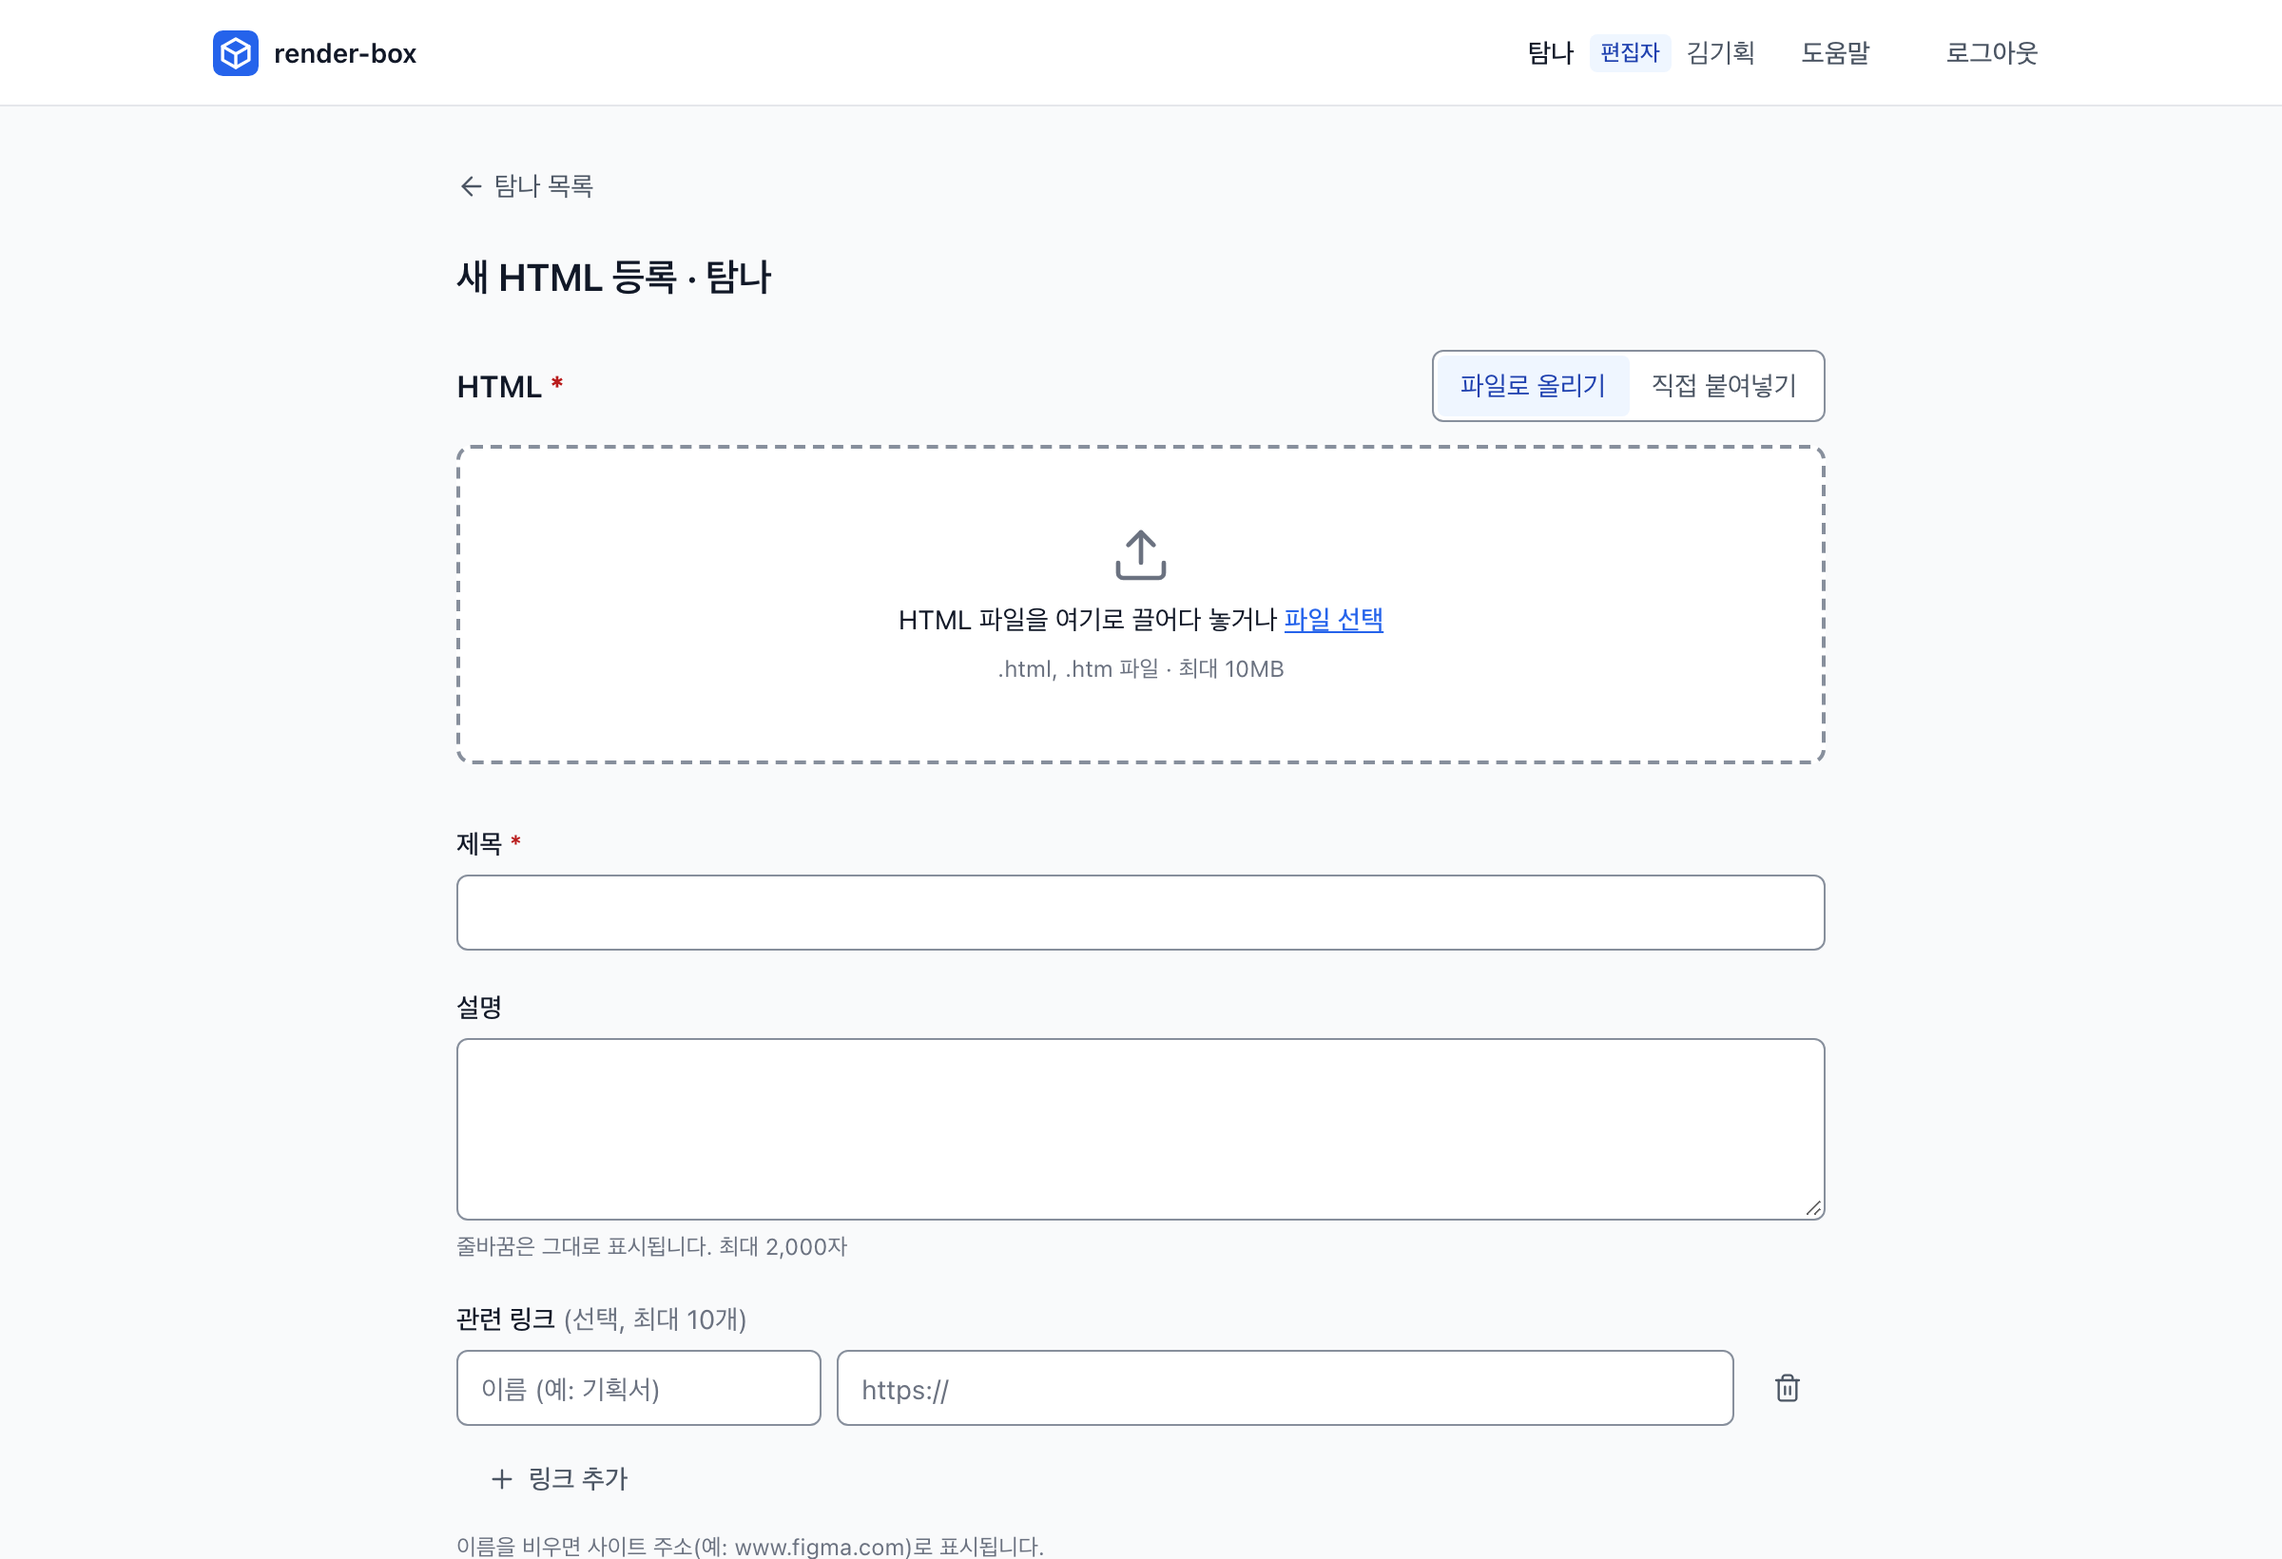
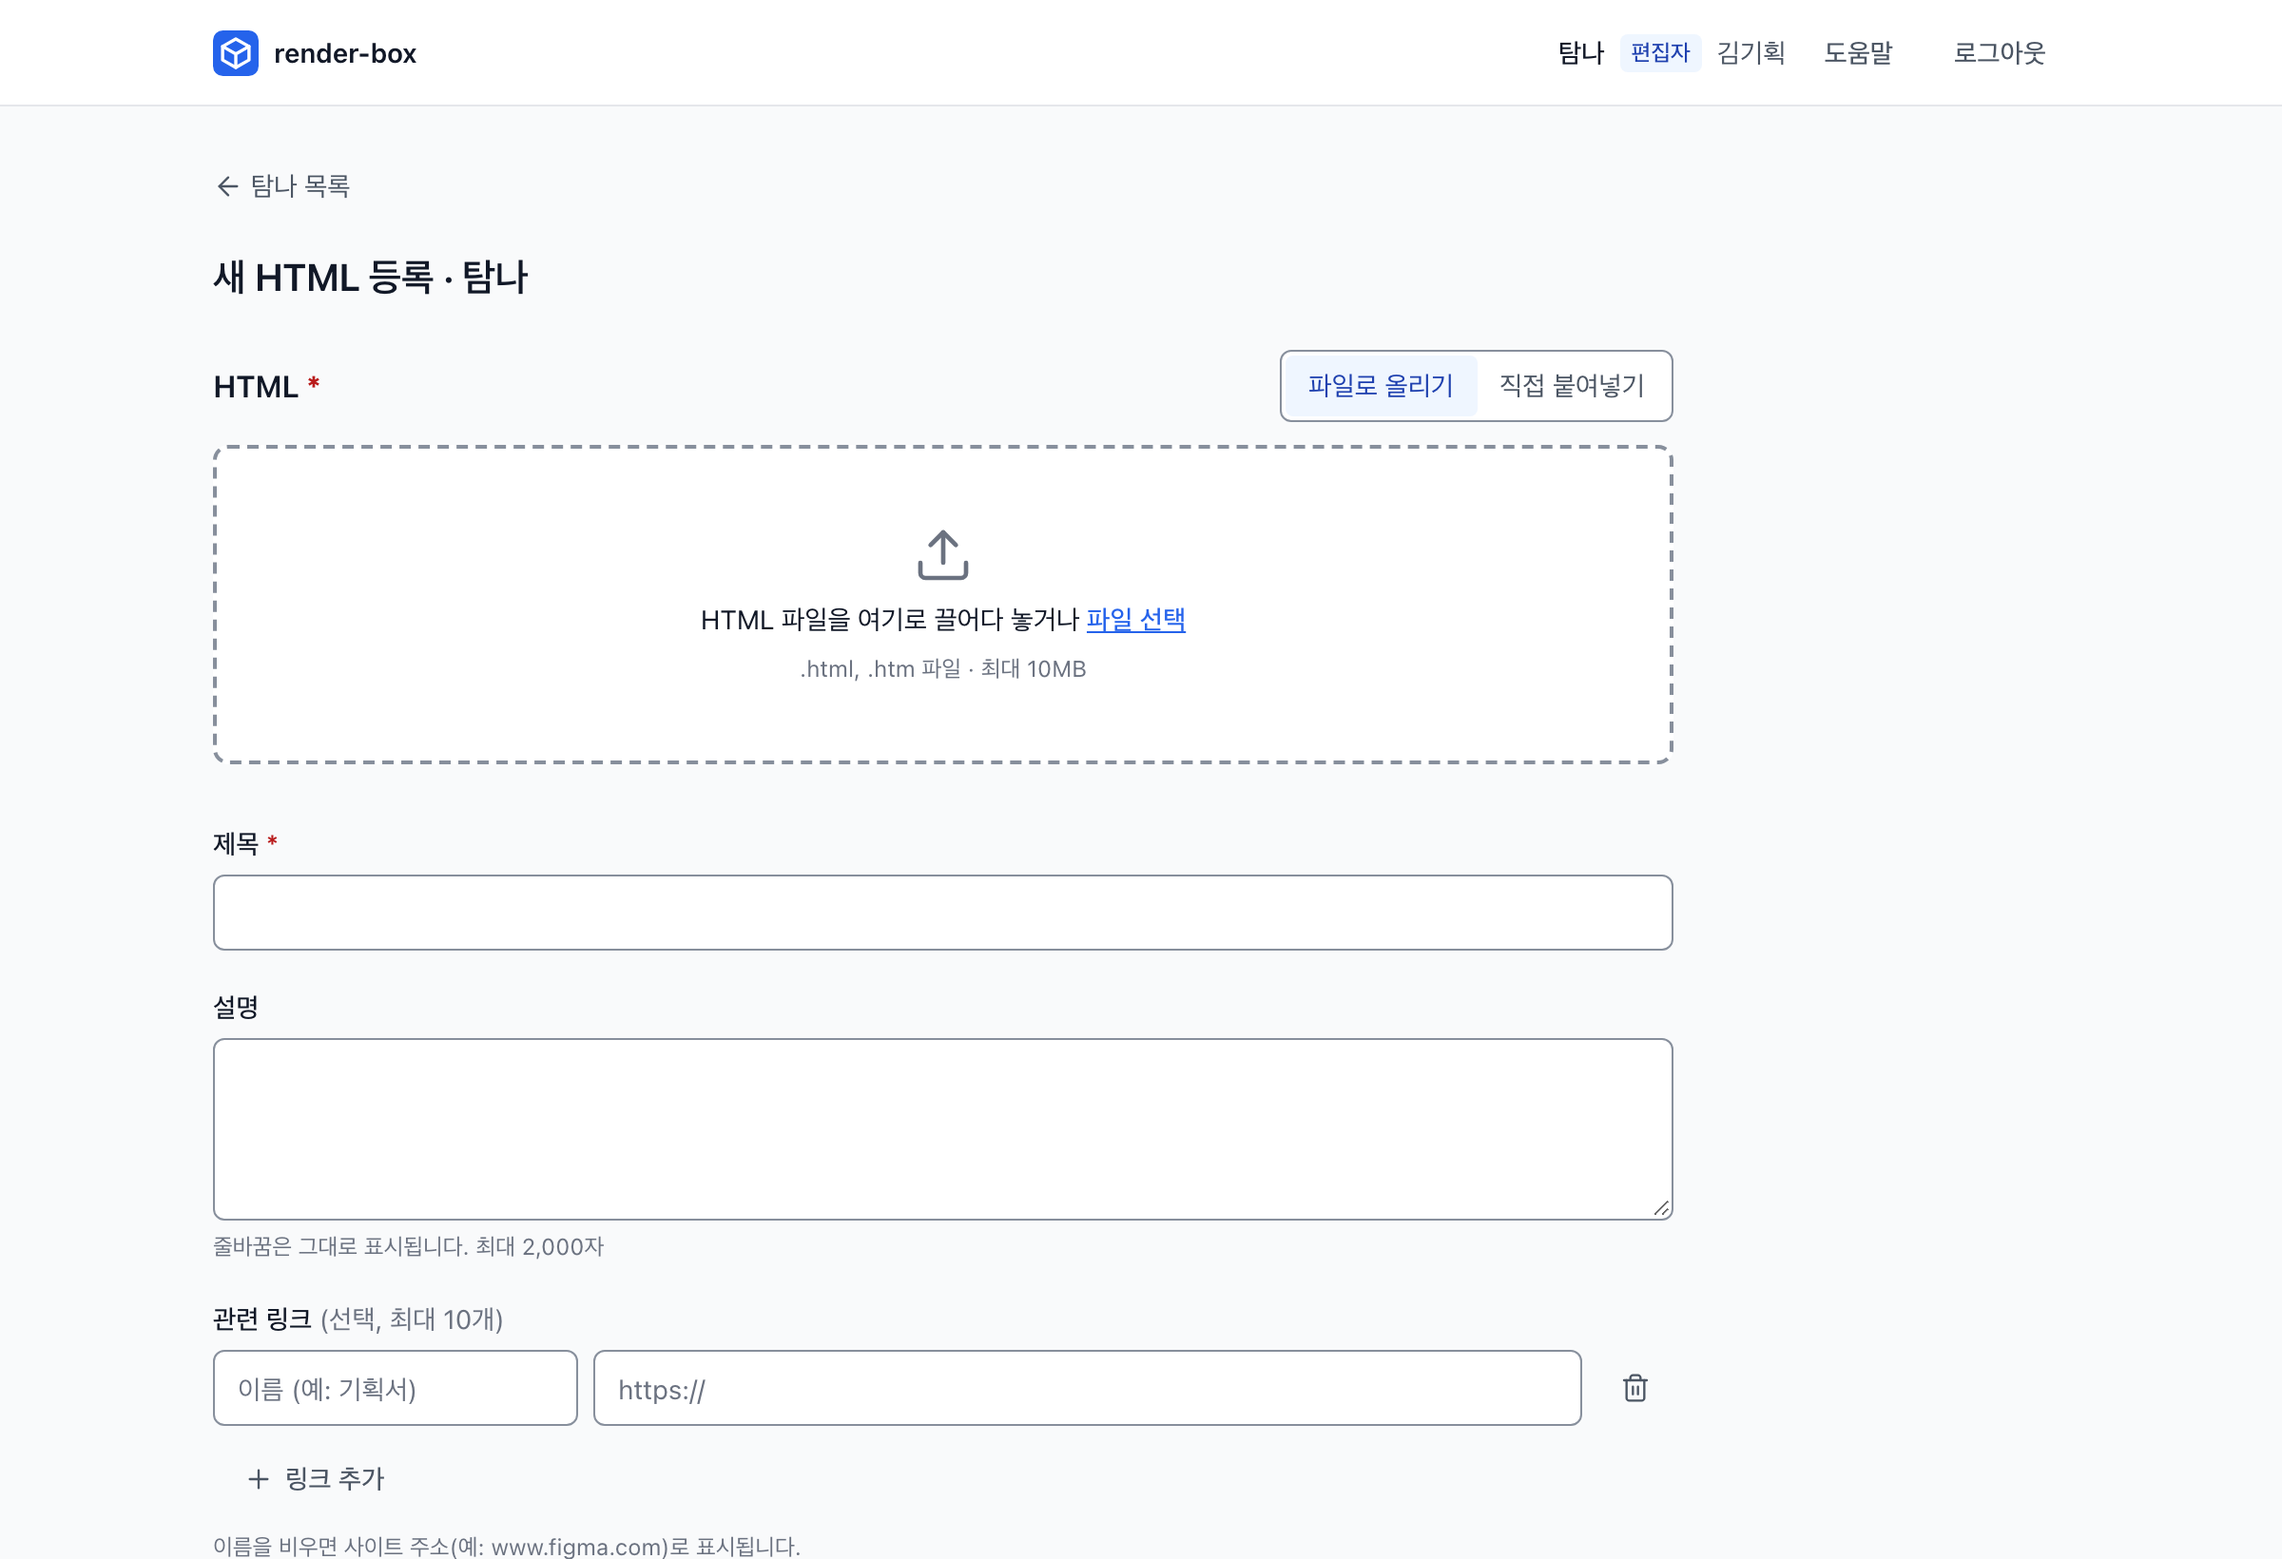
fix(admin): one page width and a phone-sized top bar
- Width jumped between pages: the list used max-w-5xl, detail/edit/new/
  storage max-w-3xl centered and the 404 card max-w-sm centered, so the
  content's left edge moved (88 / 216 / 408px at 1200px). Every page now
  uses the header's container; reading pages narrow their content inside,
  aligned left. scrollbar-gutter: stable keeps short and long pages the
  same width with classic scrollbars.
- On phones "render-box" wrapped onto two lines and overlapped the
  project name. Below sm the top bar shows the logo only, a help icon,
  a shortened project name and tighter buttons; the user name shows from md.
- e2e/layout.spec.ts: all pages start at the logo's left edge; at 360px
  the top bar is one line inside the viewport. README screenshots refreshed.

diff --git a/apps/admin/src/views/layout.tsx b/apps/admin/src/views/layout.tsx
@@ -75,16 +75,16 @@ function ProjectMenu({ user, project }: { user: SessionUser; project: Membership
   const others = user.projects.filter((p) => p.projectId !== project.projectId);
   const label = (
     <>
-      <span class="max-w-40 truncate font-medium text-fg">{project.name}</span>
+      <span class="max-w-24 truncate font-medium text-fg sm:max-w-40">{project.name}</span>
       <span class={project.role === "EDITOR" ? ui.badgePrimary : ui.badgeNeutral}>
         {user.admin ? "관리자" : ROLE_LABEL[project.role]}
       </span>
     </>
   );
-  if (others.length === 0) return <span class="flex items-center gap-2 text-sm" data-project={project.slug}>{label}</span>;
+  if (others.length === 0) return <span class="flex min-w-0 items-center gap-2 text-sm" data-project={project.slug}>{label}</span>;
   return (
-    <details class="relative" data-project={project.slug}>
-      <summary class={`${ui.ghost} cursor-pointer list-none gap-2`} aria-label={`프로젝트 ${project.name}, 바꾸기`}>
+    <details class="relative min-w-0" data-project={project.slug}>
+      <summary class={`${ui.ghost} cursor-pointer list-none gap-2 px-2 sm:px-3`} aria-label={`프로젝트 ${project.name}, 바꾸기`}>
         {label}
         <Icon name="chevron-down" class="size-3.5" />
       </summary>
@@ -107,17 +107,18 @@ export function TopBar({ user, project = null }: { user: SessionUser; project?: 
   return (
     <header class="sticky top-0 z-10 h-14 border-b border-line bg-surface">
       <div class="mx-auto flex h-full max-w-5xl items-center justify-between px-4 sm:px-6">
-        <a href="/html" class="inline-flex items-center gap-2 font-semibold text-fg">
+        {/* Logo only below sm: the name, project menu, help and logout do not fit. */}
+        <a href="/html" class="inline-flex shrink-0 items-center gap-2 font-semibold text-fg" aria-label="render-box 목록">
           <img src={asset("logo.svg")} alt="" width="24" height="24" class="size-6" />
-          render-box
+          <span class="hidden sm:inline">render-box</span>
         </a>
-        <div class="flex items-center gap-2">
+        <div class="flex min-w-0 items-center gap-1 sm:gap-2">
           {project ? <ProjectMenu user={user} project={project} /> : null}
-          <span class="hidden text-sm text-fg-muted sm:inline">{user.name}</span>
-          <HelpLink class={ui.ghost} />
-          <form method="post" action="/logout">
+          <span class="hidden text-sm text-fg-muted md:inline">{user.name}</span>
+          <HelpLink class={`${ui.ghost} px-2 sm:px-3`} compact />
+          <form method="post" action="/logout" class="shrink-0">
             <input type="hidden" name="_csrf" value={user.csrfToken ?? ""} />
-            <button type="submit" class={ui.ghost}>
+            <button type="submit" class={`${ui.ghost} px-2 sm:px-3`}>
               로그아웃
             </button>
           </form>
@@ -145,8 +146,10 @@ export function AppPage({
   return (
     <Document title={title} boost={boost}>
       <TopBar user={user} project={project} />
-      <main id="main" tabindex={-1} class={`mx-auto ${width} px-4 py-6 outline-none sm:px-6 sm:py-8`}>
-        {children}
+      {/* Every page uses the header's width so the left edge never moves between
+          pages; reading pages narrow their content inside, aligned left. */}
+      <main id="main" tabindex={-1} class="mx-auto max-w-5xl px-4 py-6 outline-none sm:px-6 sm:py-8">
+        {width === "max-w-5xl" ? children : <div class="max-w-3xl">{children}</div>}
       </main>
     </Document>
   );
@@ -211,13 +214,23 @@ export function BackLink({ href, children }: { href: string; children: Child }) 
 }
 
 // External pages open in a new tab so an unsaved form is not lost.
-export function HelpLink({ class: cls, label = "도움말" }: { class: string; label?: string }) {
+// `compact`: an icon below sm, the label from sm up (top bar).
+export function HelpLink({ class: cls, label = "도움말", compact = false }: { class: string; label?: string; compact?: boolean }) {
   const href = getHelpUrl();
   if (!href) return null;
   return (
-    <a href={href} target="_blank" rel="noopener noreferrer" class={cls}>
-      {label}
-      <span class="sr-only"> (새 창)</span>
+    <a href={href} target="_blank" rel="noopener noreferrer" class={`${cls} shrink-0`} aria-label={compact ? `${label} (새 창)` : undefined}>
+      {compact ? (
+        <>
+          <Icon name="circle-help" class="size-5 sm:hidden" />
+          <span class="hidden sm:inline">{label}</span>
+        </>
+      ) : (
+        <>
+          {label}
+          <span class="sr-only"> (새 창)</span>
+        </>
+      )}
     </a>
   );
 }

diff --git a/e2e/layout.spec.ts b/e2e/layout.spec.ts
@@ -1,0 +1,54 @@
+import { expect, test, type Page } from "@playwright/test";
+import { APP, key, login } from "./helpers";
+
+// Every page keeps the same left edge (no width jumps between pages), and the
+// top bar fits on a phone (docs/ui.md §3).
+const API = "http://api.localhost:8789/api/v1";
+
+async function someDocument() {
+  const res = await fetch(`${API}/html?${new URLSearchParams({ title: `레이아웃 ${Date.now()}` })}`, {
+    method: "POST",
+    headers: { Authorization: `Bearer ${key("EDITOR")}`, "Content-Type": "text/html" },
+    body: "<!DOCTYPE html><p>x",
+  });
+  return ((await res.json()) as { document_key: string }).document_key;
+}
+
+const leftOf = (page: Page, selector: string) =>
+  page.locator(selector).first().evaluate((el) => Math.round(el.getBoundingClientRect().left));
+
+test("pages share one left edge, the header's", async ({ page }) => {
+  const docKey = await someDocument();
+  await login(page, "EDITOR");
+  const edges: Record<string, number> = {};
+  for (const [name, path] of [
+    ["list", "/html?project=default"],
+    ["detail", `/html/${docKey}`],
+    ["edit", `/html/${docKey}/edit`],
+    ["new", "/html/new?project=default"],
+    ["storage", "/storage"],
+    ["404", "/html/AAAAAAAAAAAAAAAAAAAAAA"],
+  ] as const) {
+    await page.goto(APP + path);
+    // The first block of the page (h1, or the error card) against the logo.
+    edges[name] = await leftOf(page, "main > *, main > div > *");
+    expect(edges[name], name).toBe(await leftOf(page, "header a"));
+  }
+});
+
+test("the top bar fits on a phone", async ({ browser }) => {
+  const context = await browser.newContext({ viewport: { width: 360, height: 740 } });
+  const page = await context.newPage();
+  await login(page, "EDITOR");
+  await page.goto(`${APP}/html?project=default`);
+  const box = await page.evaluate(() => {
+    const logo = document.querySelector("header a")!.getBoundingClientRect();
+    const right = document.querySelector("header > div > div")!.getBoundingClientRect();
+    return { gap: right.left - logo.right, rightEdge: right.right, width: window.innerWidth, height: right.height };
+  });
+  expect(box.gap).toBeGreaterThan(0);
+  expect(box.rightEdge).toBeLessThanOrEqual(box.width);
+  expect(box.height).toBeLessThanOrEqual(40); // one line
+  await expect(page.getByRole("link", { name: /도움말/ })).toBeVisible();
+  await context.close();
+});

diff --git a/apps/admin/src/views/error.tsx b/apps/admin/src/views/error.tsx
@@ -42,8 +42,9 @@ export function ErrorPage({ kind, user }: { kind: ErrorKind; user: SessionUser |
   return (
     <Document title={e.title}>
       {user ? <TopBar user={user} /> : null}
-      <main id="main" class="mx-auto max-w-sm px-4 py-16">
-        <div class={ui.card}>
+      {/* Same container as other pages, so the left edge stays put. */}
+      <main id="main" tabindex={-1} class="mx-auto max-w-5xl px-4 py-10 outline-none sm:px-6 sm:py-16">
+        <div class={`${ui.card} max-w-sm`}>
           <p class="font-mono text-xs text-fg-subtle">{e.status}</p>
           <h1 class="mt-1 text-xl font-semibold">{e.title}</h1>
           <p class="mt-2 text-fg-muted break-keep">{e.body}</p>

diff --git a/apps/admin/src/views/icon.tsx b/apps/admin/src/views/icon.tsx
@@ -19,6 +19,7 @@ const PATHS = {
   loader: '<path d="M21 12a9 9 0 1 1-6.219-8.56"/>',
   "arrow-left": '<path d="m12 19-7-7 7-7"/><path d="M19 12H5"/>',
   "chevron-down": '<path d="m6 9 6 6 6-6"/>',
+  "circle-help": '<circle cx="12" cy="12" r="10"/><path d="M9.09 9a3 3 0 0 1 5.83 1c0 2-3 3-3 3"/><path d="M12 17h.01"/>',
   "rotate-ccw": '<path d="M3 12a9 9 0 1 0 9-9 9.75 9.75 0 0 0-6.74 2.74L3 8"/><path d="M3 3v5h5"/>',
   database: '<ellipse cx="12" cy="5" rx="9" ry="3"/><path d="M3 5V19A9 3 0 0 0 21 19V5"/><path d="M3 12A9 3 0 0 0 21 12"/>',
 } as const;

diff --git a/apps/admin/src/styles/app.css b/apps/admin/src/styles/app.css
@@ -38,7 +38,8 @@
 }
 
 @layer base {
-  html { color-scheme: light; }
+  /* Reserve the scrollbar's space so short and long pages have the same width. */
+  html { color-scheme: light; scrollbar-gutter: stable; }
   body { @apply bg-canvas text-fg font-sans text-sm antialiased; }
 }
 

diff --git a/docs/ui.md b/docs/ui.md
@@ -143,24 +143,28 @@ Tailwind 기본 스케일만 쓰고, 굵기는 400/500/600 세 가지만 쓴다.
 
 **상단 바:** `sticky top-0 z-10 h-14 border-b border-line bg-surface`
 
-- 왼쪽: 로고(`/static/logo.svg`, `size-6`, `alt=""`) + "render-box"(`font-semibold`, `/html`로 가는 링크)
+- 왼쪽: 로고(`/static/logo.svg`, `size-6`, `alt=""`) + "render-box"(`font-semibold`, `/html`로 가는 링크). `sm` 미만에서는 로고만(링크 `aria-label="render-box 목록"`).
+- **모바일(`sm` 미만):** 프로젝트 이름은 `max-w-24`로 줄여 말줄임, [도움말]은 `circle-help` 아이콘(`aria-label`), 버튼 좌우 여백 `px-2`. 사용자 이름은 `md`부터 보인다.
 - 오른쪽: 지금 프로젝트, 사용자 이름, [도움말], [로그아웃]
   - **지금 프로젝트:** 프로젝트 이름(`font-medium`, `max-w-40 truncate`) + **그 프로젝트에서의** 역할 배지(편집자/열람자). 역할은 키가 아니라 프로젝트마다 다르다 (design.md 3.9). 관리자 키(D-38)는 모든 프로젝트에서 badge-primary "관리자"로, 메뉴의 프로젝트 목록에도 "관리자"로 보인다.
   - 프로젝트가 둘 이상이면 `<details>` 메뉴가 된다. `<summary>`는 ghost 버튼 모양에 `chevron-down` 아이콘, 열면 다른 프로젝트 목록(이름 + 역할, `/html?project=<slug>` 링크)이 오른쪽 정렬로 뜬다. JS 없이 동작한다.
   - 지금 프로젝트가 없는 화면(오류 페이지)에서는 프로젝트를 보여 주지 않는다.
   - [도움말]은 ghost 링크이고 `target="_blank"`(뒤에 `sr-only` "(새 창)")다. `HELP_URL`이 비어 있으면 숨긴다.
   - [로그아웃]은 POST 폼 버튼이고 ghost 스타일이다.
-  - 모바일에서는 이름을 숨긴다(`hidden sm:inline`).
+  - 사용자 이름은 `md`부터 보인다(`hidden md:inline`).
 
 **하단:** 모든 화면 맨 아래 가운데에 "render-box · GitHub"(원본 저장소, `text-xs text-fg-subtle`, 새 창). 도움말과 달리 설정으로 바꾸지 않는다.
 
 **아이콘:** 파비콘은 `logo.svg`, iOS 홈 화면 아이콘은 `apple-touch-icon.png`(180px, 모서리 없음 — iOS가 둥글게 자른다). 렌더링 화면에는 아무것도 넣지 않는다.
 
-**최대 폭:** 모두 `mx-auto`로 가운데 정렬한다.
+**최대 폭:** 상단 바와 모든 화면이 같은 바깥 폭(`max-w-5xl mx-auto`)을 쓴다. 그래야 화면을 옮겨도 왼쪽 시작선이 움직이지 않는다.
 
-- 목록: `max-w-5xl`
-- 상세·등록·수정: `max-w-3xl`
-- 로그인·오류: `max-w-sm` 카드
+- 목록: 바깥 폭 그대로
+- 상세·등록·수정·저장 공간: 바깥 폭 안에서 내용만 `max-w-3xl`, **왼쪽 정렬**(가운데로 모으지 않는다)
+- 오류: 같은 바깥 폭 안에 `max-w-sm` 카드, 왼쪽 정렬
+- 로그인: 상단 바가 없는 화면이라 가운데 `max-w-sm` 카드
+- `html`에 `scrollbar-gutter: stable`: 스크롤바가 생기고 없어질 때 폭이 흔들리지 않게 자리를 늘 비워 둔다.
+- 테스트: `e2e/layout.spec.ts`(모든 화면의 첫 블록이 로고와 같은 왼쪽 선, 360px에서 상단 바 한 줄)
 
 **반응형 기준점:**
 
